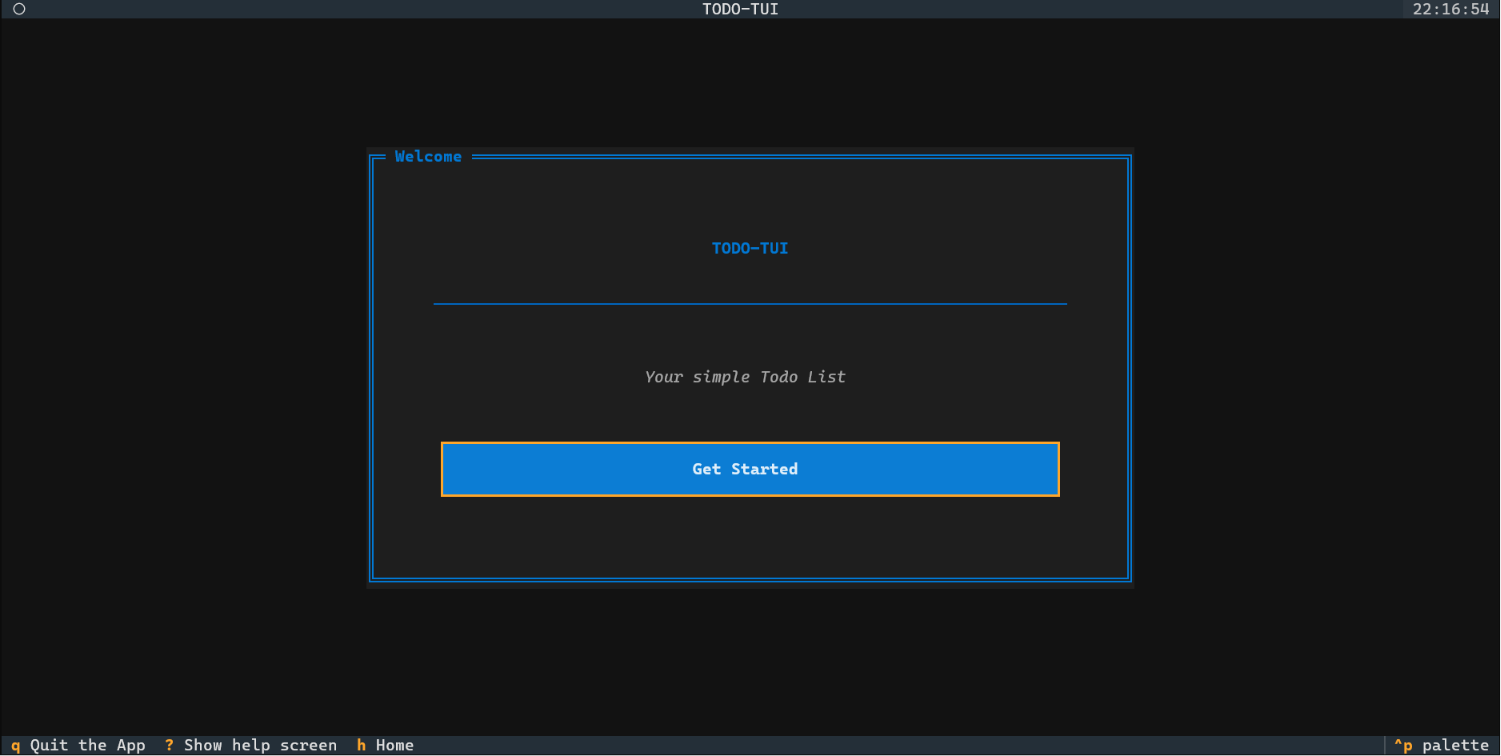
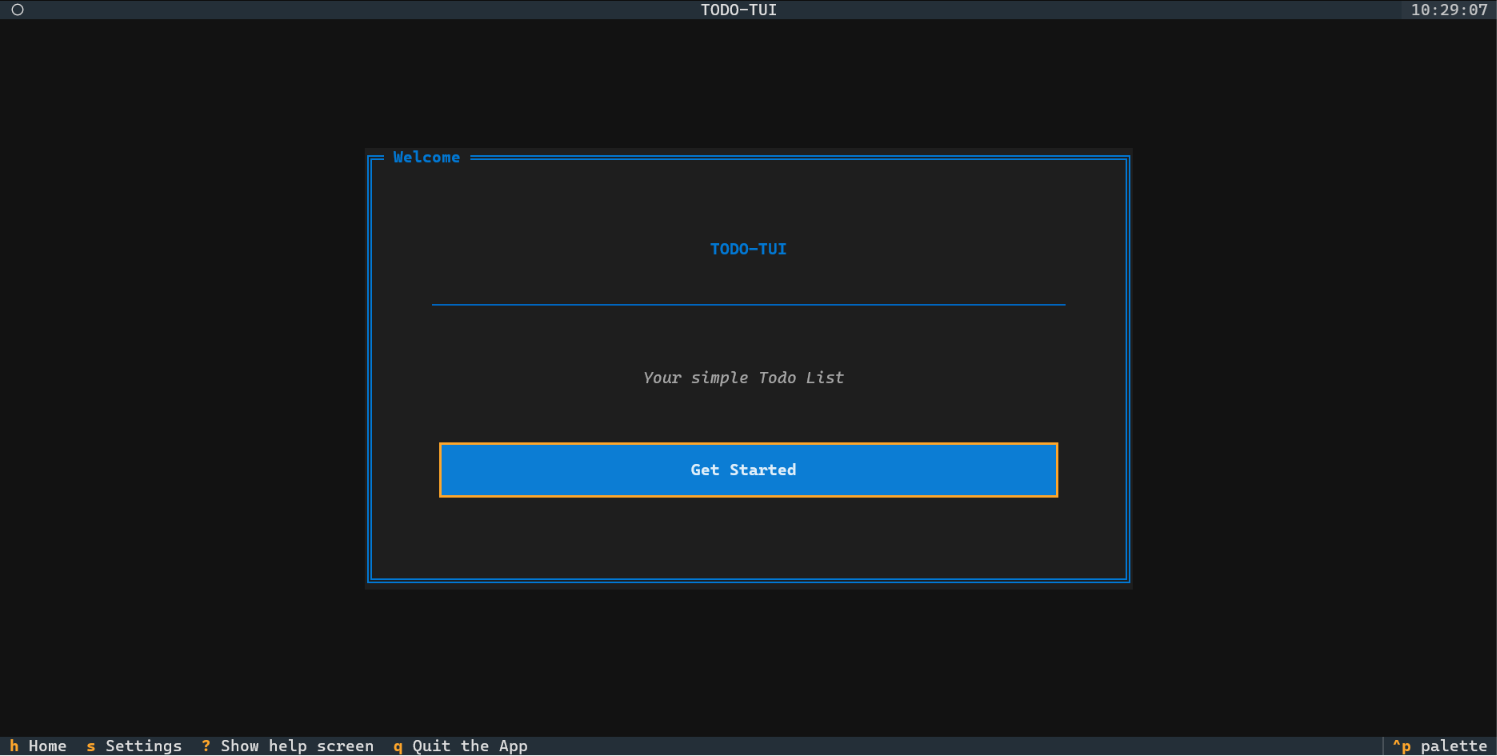
Fixed the toggle button bug

diff --git a/src/todo_tui/main.py b/src/todo_tui/main.py
@@ -50,9 +50,32 @@ class TodoApp(App):
             )
             """
         )
+        self.conn.execute(
+            """
+            CREATE TABLE IF NOT EXISTS SETTINGS(
+                KEY TEXT PRIMARY KEY,
+                VALUE TEXT NOT NULL
+            )
+            """
+        )
         self.conn.commit()
+        self.load_settings()
         self.theme = "textual-dark"
         self.push_screen(WelcomeScreen())
+
+    def load_settings(self):
+        row = self.conn.execute("SELECT VALUE FROM SETTINGS WHERE KEY = ?", ("sound_enabled",)).fetchone()
+        if row is not None:
+            self.sound_enabled = row[0] == "1"
+        else:
+            self.sound_enabled = True
+
+    def save_sound_setting(self, value: bool):
+        self.conn.execute(
+            "INSERT OR REPLACE INTO SETTINGS (KEY, VALUE) VALUES (?, ?)",
+            ("sound_enabled", "1" if value else "0"),
+        )
+        self.conn.commit()
 
     def action_home(self):
         self.push_screen(WelcomeScreen())
@@ -283,7 +306,9 @@ class SettingsScreen(Screen):
         yield Footer()
 
     def on_switch_changed(self, event: Switch.Changed):
-         cast(TodoApp, self.app).sound_enabled = event.value
+        app = cast(TodoApp, self.app)
+        app.sound_enabled = event.value
+        app.save_sound_setting(event.value)
 
 def main():
     app = TodoApp()

diff --git a/README.md b/README.md
@@ -12,7 +12,7 @@ A feature-rich, keyboard-driven **Terminal User Interface (TUI)** todo applicati
 - **Task Persistence** – All tasks are stored in `~/.todo-tui/todo.db` with creation and completion timestamps.
 - **Quit Confirmation** – Press `q` to see a confirmation dialog before exiting.
 - **Help Screen** – Press `?` to view all keybindings and usage instructions.
-- **Settings Screen** – Press `s` to open settings and toggle preferences (e.g. completion sound on/off).
+- **Settings Screen** – Press `s` to open settings and toggle preferences (e.g. completion sound on/off). Settings persist across app restarts.
 - **Home Navigation** – Press `h` from any screen to return to the Welcome screen.
 - **Keyboard-Driven UI** – Full keyboard navigation with `Tab`, `Space`, `Delete`, `Esc`, and more.
 - **Dark Theme** – A consistent `textual-dark` theme throughout the app.
@@ -32,6 +32,18 @@ The core task management view with two panels: **Available** tasks on the left a
 
 ![Todo Task Area](src/todo_tui/assets/Todo-TaskArea%20(Screenshot).png)
 
+### Settings Screen
+
+Configure app preferences such as toggling the completion sound on/off. Settings persist across restarts.
+
+![Settings Screen](src/todo_tui/assets/Settings%20Screen%20(Screenshot).png)
+
+### Help Screen
+
+Displays all keybindings and usage instructions for the app.
+
+![Help Screen](src/todo_tui/assets/Help%20Screen%20(Screenshot).png)
+
 ## Architecture
 
 ```
@@ -43,8 +55,10 @@ todo-tui/
 │   └── todo_tui/
 │       ├── assets/                  # Static assets (images, sounds)
 │       │   ├── bell.wav             # Success sound played on task completion
-│       │   ├── Welcome Screen (Screenshot).png
-│       │   └── Todo-TaskArea (Screenshot).png
+│       │   ├── Help Screen (Screenshot).png
+│       │   ├── Settings Screen (Screenshot).png
+│       │   ├── Todo-TaskArea (Screenshot).png
+│       │   └── Welcome Screen (Screenshot).png
 │       ├── css/
 │       │   └── todo.tcss            # Textual CSS stylesheet for the TUI
 │       ├── docs/
@@ -88,6 +102,29 @@ Welcome Screen
 | **Help**         | Displays all keybindings and usage instructions (markdown) |
 | **Quit**         | Modal dialog asking "Are you sure you want to quit?" |
 | **Delete**       | Modal dialog asking "Are you sure you want to delete this task?" |
+
+### Database Schema
+
+The app uses SQLite with two tables:
+
+**TASKS table** — stores all todo items:
+```sql
+CREATE TABLE TASKS(
+    ID          INTEGER PRIMARY KEY,
+    TASK        TEXT NOT NULL,
+    DONE        INTEGER DEFAULT 0,
+    CREATED_AT  TEXT DEFAULT(datetime('now','localtime')),
+    COMPLETED_AT TEXT
+);
+```
+
+**SETTINGS table** — stores user preferences (key-value pairs, e.g. `sound_enabled`):
+```sql
+CREATE TABLE SETTINGS(
+    KEY   TEXT PRIMARY KEY,
+    VALUE TEXT NOT NULL
+);
+```
 
 ### Tech Stack
 

diff --git a/src/todo_tui/docs/help.md b/src/todo_tui/docs/help.md
@@ -71,3 +71,4 @@
 - Data is persisted in a local **todo.db** database (`.todo-tui/todo.db`)
 - Tasks are stored with creation and completion timestamps
 - A success sound (`bell.wav`) plays when a task is marked complete (Windows only)
+- Settings (such as the completion sound toggle) are persisted in a **SETTINGS** table inside `todo.db` and survive app restarts